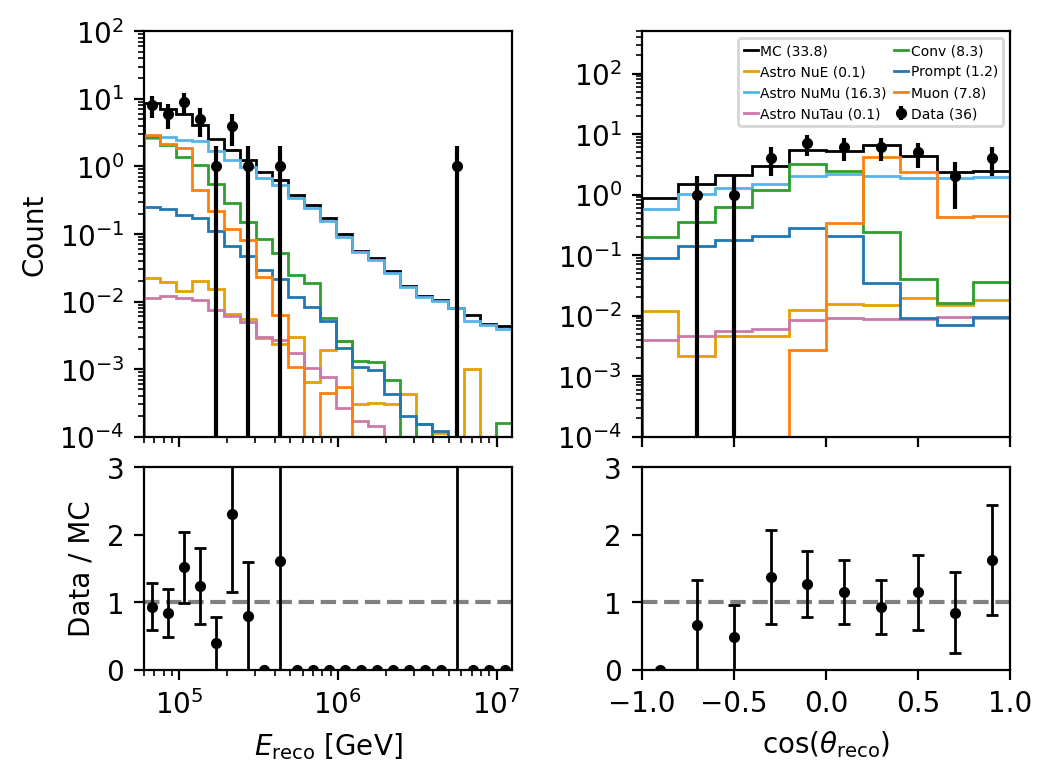
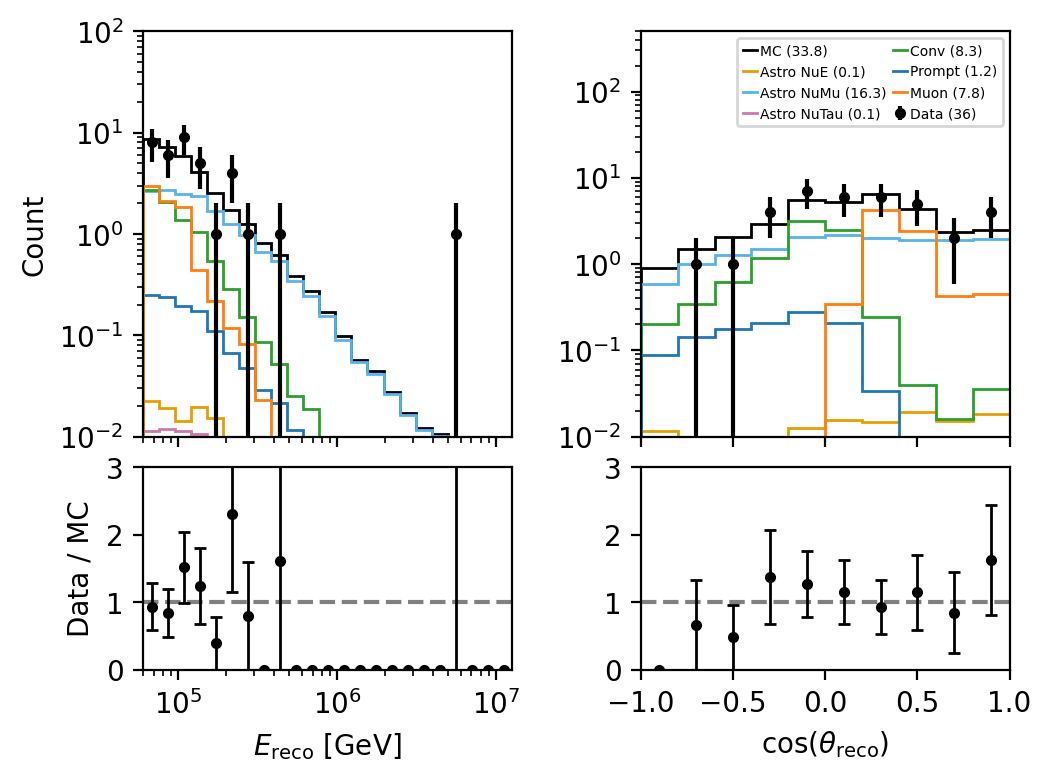
update step2 plots yaxis range

diff --git a/NNMFit/notebooks/unblind/step2_hese_flavor_reunblind/plot_configs.py b/NNMFit/notebooks/unblind/step2_hese_flavor_reunblind/plot_configs.py
@@ -98,8 +98,8 @@ def _lower_ylim(dim_info, decades=2):
 _separate_plots = []
 for _scan_name, _plot_flavor in _SEPARATE_SCANS:
     for _chan_key, _chan_label, _spec in _CHAN_SPECS:
-        # all step2 plots: small components visible down to two decades lower
-        _dim_info = _lower_ylim(_spec["dim_info"])
+        # detector systematic scans: small components visible down to two decades lower; best-fit plots keep the default ylim
+        _dim_info = _lower_ylim(_spec["dim_info"]) if "_detsyst_" in _scan_name else _spec["dim_info"]
         for _show_count in [True, False]:
             for _plot_data in [True, False]:
                 # no_syst: same best fit, but without the Snowstorm gradient shift
